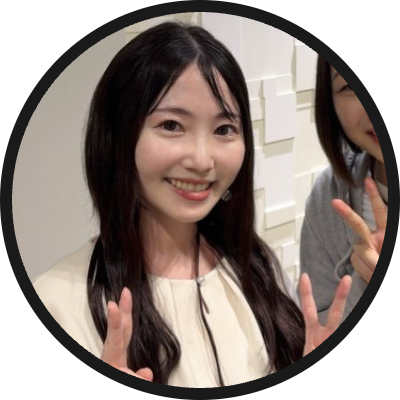
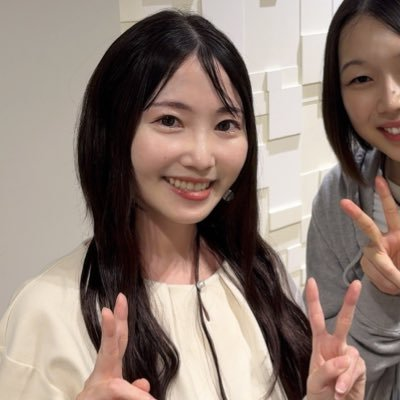
Update speaker photos, align them bottom-right, and date the planning note

diff --git a/slides/index.html b/slides/index.html
@@ -102,14 +102,14 @@
   .profiles .win { flex: 1; display: flex; flex-direction: column; padding-top: 36px; }
   .profiles ul { font-size: 22px; line-height: 1.5; }
   .profiles ul.dots li { margin: 6px 0; }
-  .profiles .icon-row { margin-top: auto; display: flex; }
+  .profiles .icon-row { position: absolute; bottom: 30px; }
+  .icon-left { left: 38px; }
+  .icon-right { right: 38px; }
   .profiles .icon-row img {
     width: 140px; height: 140px;
     border: 3px solid #fff;
     border-radius: 6px;
   }
-  .icon-left { justify-content: flex-start; }
-  .icon-right { justify-content: flex-end; }
 
   /* オワタ */
   .owata { flex: 1; display: flex; flex-direction: column; align-items: center; justify-content: center; gap: 30px; }
@@ -169,7 +169,7 @@
           <li>3 日前に原因不明の発熱？</li>
           <li>ツイ廃</li>
         </ul>
-        <div class="icon-row icon-left"><img src="assets/nukonuko.png" alt="ぬこぬこ"></div>
+        <div class="icon-row icon-right"><img src="assets/nukonuko.png" alt="ぬこぬこ"></div>
       </div>
       <div class="win">
         <div class="tag">ちょまど</div>
@@ -192,7 +192,7 @@
     <div class="head">今日の登壇内容について</div>
     <div class="center">
       <div class="win" style="max-width: 1000px;">
-        <p class="msg">元々ちょまどさんが Code with Claude Tokyo で登壇されていた Claude x Foundry のハンズオンのような、会場を巻き込んで何かを作ってもらうのやりたいよねって話をしていた</p>
+        <p class="msg">元々ちょまどさんが Code with Claude Tokyo で登壇されていた Claude x Foundry のハンズオンのような、会場を巻き込んで何かを作ってもらうのやりたいよねって話をしていた（7/14）</p>
         <div class="more">▼</div>
       </div>
       <p class="url"><a href="https://qiita.com/chomado/items/a072528364883ae7bb96">https://qiita.com/chomado/items/a072528364883ae7bb96</a></p>
